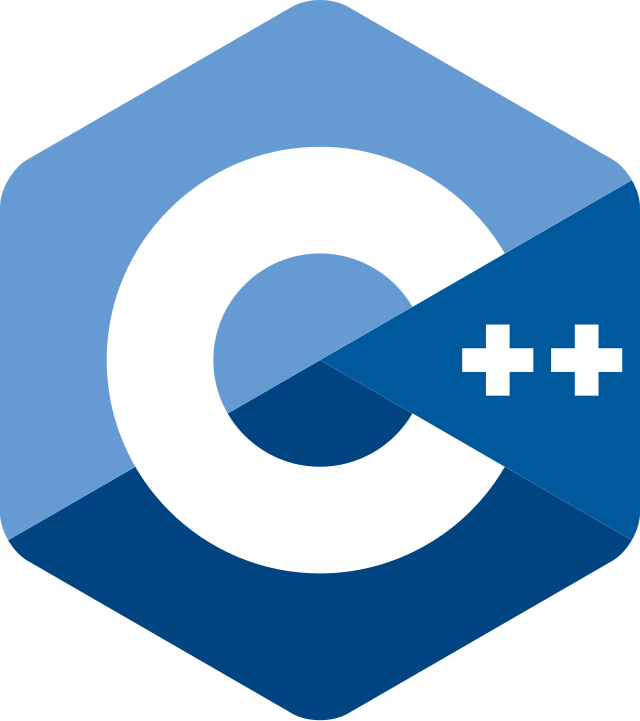
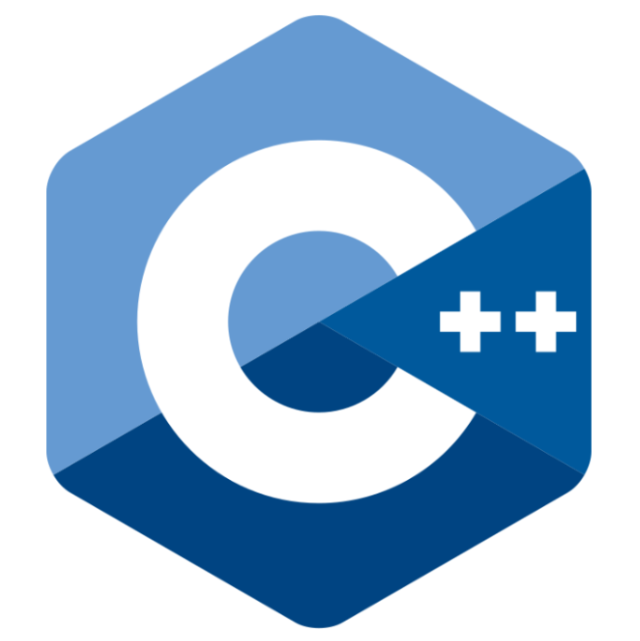
add: 作品の欄の追加、Titleの変更、TitleImageの変更

Changed region(s): [[0.0, 0.0, 1.0, 1.0], [0.4375, 0.4992, 0.5625, 0.5304]]

diff --git a/src/components/BlogPage.tsx b/src/components/BlogPage.tsx
@@ -1,30 +1,26 @@
 import React from 'react'
 import direxrXImage from "../images/DirectX.png";
 
+const pr:string = "";
+
 const BlogPage = () => {
   return (
     <div className="container text-center">
       <div className="text-padding-bottom">
-        <h1 className="blog title">作品(仮)</h1>
+        <h1 className="blog title">ブログ</h1>
       </div>
       <section id="skill">
         <div className="text-center">
           <div className="row text-center">
-            <div className="services text-padding-bottom">
-              <img src={direxrXImage} />
-              <h4>1年次の作品</h4>
-              <p>頑張った</p>
-            </div>
-            <div className="services text-padding-bottom">
-              <img src={direxrXImage} />
-              <h4>2年次の作品</h4>
-              <p>この作品ではスキルを使う部分がありそこの一部を担当していました。</p>
-            </div>
-            <div className="services text-padding-bottom">
-              <img src={direxrXImage} />
-              <h4>3年次の作品</h4>
-              <p>独学で他の言語を学び頑張りました。</p>
-              <a href='https://main.d1imdaxv4yro4n.amplifyapp.com/'>これが作品です。</a>
+            <div className="services text-padding-bottom centered-text">
+              <h3>MinecraftServer編</h3>
+              <h6 className="left-aligned-text">
+                <p>マイクラは高校時代から始め、その時のネット友達からサーバーの立て方を教えてもらいその時からマイクラにハマって行き、</p>
+                <p>最初の方はサーバーを立てるのがめんどうに思っていましたが、立ててるうちに楽しくなり、最近ではMODサーバーやプラグイ</p>
+                <p>ンサーバーを立てたりして遊んでいます。最近ではドラゴンが出てくるようなMODや、魔法が使えるMODなどを入れて遊ん</p>
+                <p>でいます。</p>
+                <p></p>
+              </h6>
             </div>
           </div>
         </div>

diff --git a/src/components/HomePage.tsx b/src/components/HomePage.tsx
@@ -7,6 +7,9 @@ import cplusImage from "../images/c++.png";
 import cImage from "../images/c.png";
 import direxrXImage from "../images/DirectX.png";
 import pythonImage from "../images/python.png";
+import unityImage from "../images/unity.png";
+import unrealImage from "../images/unreal.png";
+import CSharplImage from "../images/CSharp.jpg";
 
 const HomePage = () => {
   const names:string = "shu_999です!!";
@@ -35,6 +38,16 @@ const HomePage = () => {
               <p>DirectXが使えます</p>
             </div>
             <div className="col-md-4 services">
+              <img src={unityImage} />
+              <h4>Unity</h4>
+              <p>Unityが使えます</p>
+            </div>
+            <div className="col-md-4 services">
+              <img src={unrealImage} />
+              <h4>Unreal</h4>
+              <p>Unrealが使えます</p>
+            </div>
+            <div className="col-md-4 services">
               <img src={cImage} />
               <h4>C言語</h4>
               <p>C言語が使えます</p>
@@ -44,6 +57,12 @@ const HomePage = () => {
               <h4>C++</h4>
               <p>C++が使えます</p>
             </div>
+            <div className="col-md-4 services">
+              <img src={CSharplImage} />
+              <h4>C#</h4>
+              <p>C#が使えます</p>
+            </div>
+
 
             <div className="text-padding-bottom text-padding-top">
               <h1 className="title">勉強中のスキル一覧</h1>

diff --git a/src/components/DeliverablesPage.tsx b/src/components/DeliverablesPage.tsx
@@ -1,0 +1,36 @@
+import React from 'react'
+import direxrXImage from "../images/DirectX.png";
+
+const DeliverablesPage = () => {
+  return (
+    <div className="container text-center">
+      <div className="text-padding-bottom">
+        <h1 className="delicerbles title">作品(仮)</h1>
+      </div>
+      <section id="skill">
+        <div className="text-center">
+          <div className="row text-center">
+            <div className="services text-padding-bottom">
+              <img src={direxrXImage} />
+              <h4>1年次の作品</h4>
+              <p>頑張った</p>
+            </div>
+            <div className="services text-padding-bottom">
+              <img src={direxrXImage} />
+              <h4>2年次の作品</h4>
+              <p>この作品ではスキルを使う部分がありそこの一部を担当していました。</p>
+            </div>
+            <div className="services text-padding-bottom">
+              <img src={direxrXImage} />
+              <h4>3年次の作品</h4>
+              <p>独学で他の言語を学び頑張りました。</p>
+              <a href='https://main.d1imdaxv4yro4n.amplifyapp.com/'>これが作品です。</a>
+            </div>
+          </div>
+        </div>
+      </section>
+    </div>
+  )
+}
+
+export default DeliverablesPage

diff --git a/src/App.tsx b/src/App.tsx
@@ -4,6 +4,8 @@ import Header from './components/Header';
 import BlogPage from './components/BlogPage';
 import HomePage from './components/HomePage';
 import SNSPage from './components/SNSPage';
+import DeliPage from './components/DeliverablesPage';
+
 import { BrowserRouter as Router, Route, Routes} from "react-router-dom";
 
 function App() {
@@ -15,6 +17,7 @@ function App() {
         <Routes>
           <Route path="/" element={<HomePage />}/>
           <Route path="/blog" element={<BlogPage />}/>
+          <Route path="/deli" element={<DeliPage />}/>
           <Route path="/sns" element={<SNSPage />}/>
         </Routes>
       </div>

diff --git a/public/index.html b/public/index.html
@@ -2,7 +2,7 @@
 <html lang="en">
   <head>
     <meta charset="utf-8" />
-    <link rel="icon" href="%PUBLIC_URL%/favicon.ico" />
+    <link rel="icon" href="%PUBLIC_URL%/icon.ico" />
     <meta name="viewport" content="width=device-width, initial-scale=1" />
     <meta name="theme-color" content="#000000" />
     <meta
@@ -16,7 +16,7 @@
     -->
     <link rel="manifest" href="%PUBLIC_URL%/manifest.json" />
    
-    <title>UNCHI</title>
+    <title>ポートフォリオ</title>
   </head>
   <body>
     <noscript>You need to enable JavaScript to run this app.</noscript>

diff --git a/src/components/Header.tsx b/src/components/Header.tsx
@@ -13,7 +13,10 @@ const Header = () => {
                     <Link to="/">ホーム</Link>
                 </li>
                 <li>
-                    <Link to="/blog">作品(仮)</Link>
+                    <Link to="/blog">ブログ</Link>
+                </li>
+                <li>
+                    <Link to="/deli">作品(仮)</Link>
                 </li>
                 <li>
                     <Link to="/sns">SNS</Link>

diff --git a/src/components/SNSPage.tsx b/src/components/SNSPage.tsx
@@ -14,6 +14,7 @@ const SNSPage = () => {
         <div className="text-center title">
           <div className="row text-center">
             <div className="col-md-4 services text-padding-bottom">
+              <h4>X(旧Twitter)</h4>
               <img src={XImage} />
               <h4>X(旧Twitter)</h4>
               <p>DirectXが使えます</p>

diff --git a/src/App.css b/src/App.css
@@ -91,6 +91,13 @@ img {
   margin-bottom: 60px;
   object-fit: cover;
 }
+.flex-container {
+	display: flex;
+	justify-content: center;
+}
+.flex-item{
+	flex: 50 50 px;
+}
 #skill img {
   object-fit: cover;
   margin-bottom: 12px;
